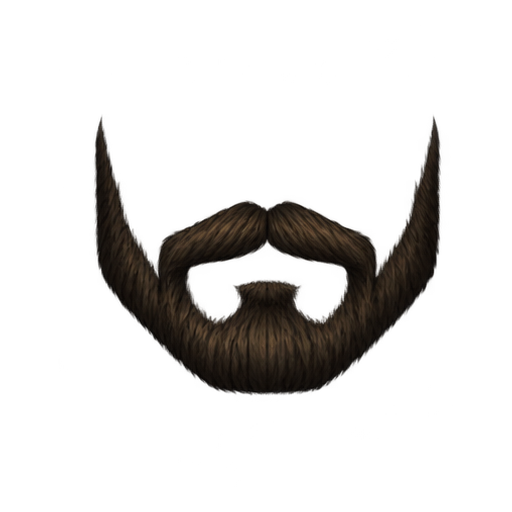
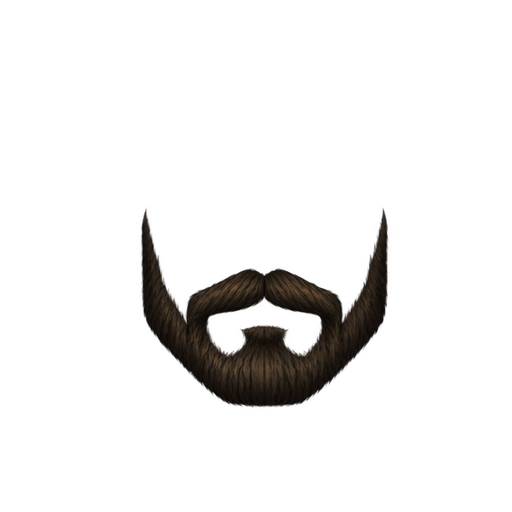
Anchor facial layers inside transparent sprites

Changed region(s): [[0.1875, 0.2188, 0.875, 0.8125]]

diff --git a/src/styles.css b/src/styles.css
@@ -78,3 +78,5 @@
 .creation-avatar.layered-avatar .avatar-hair{transform:translateY(-18%)!important}
 .layered-avatar .avatar-beard{transform:translateY(30%)!important}
 .creation-avatar.layered-avatar .avatar-beard{transform:translateY(30%)!important}
+.layered-avatar .avatar-hair,.creation-avatar.layered-avatar .avatar-hair{background-size:100% 100%!important;background-position:center!important;transform:none!important}
+.layered-avatar .avatar-beard,.creation-avatar.layered-avatar .avatar-beard{background-size:100% 100%!important;background-position:center!important;transform:none!important}
